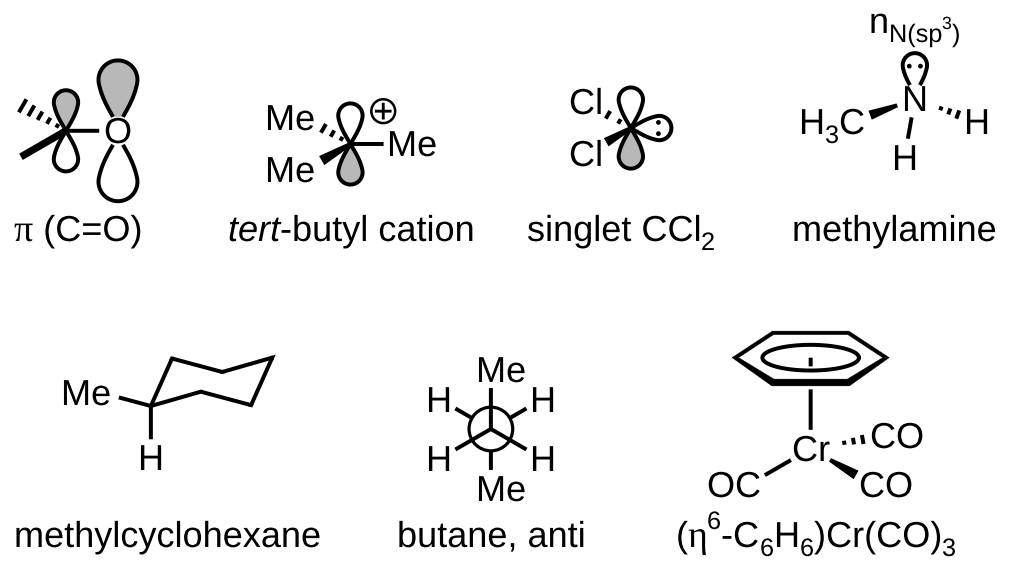
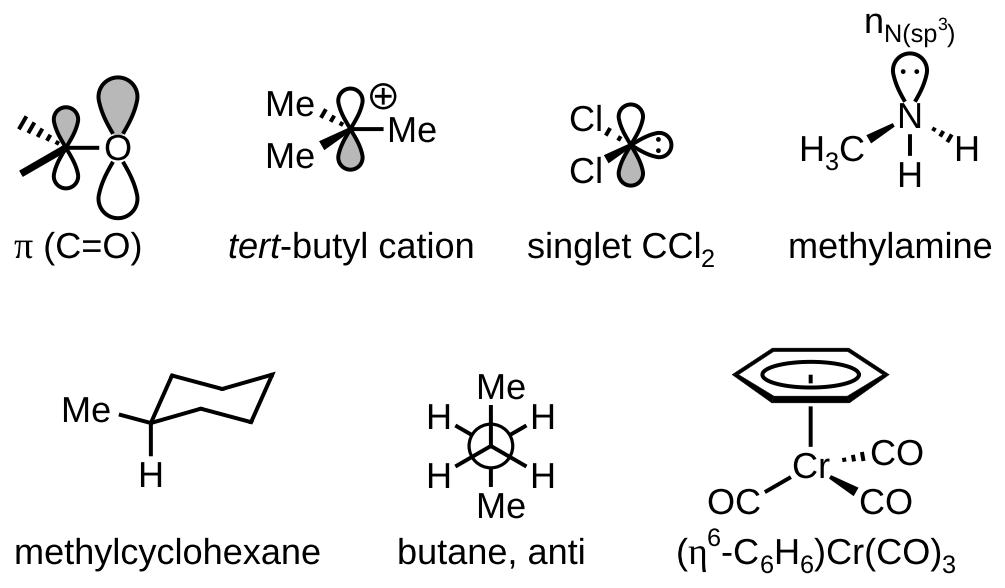
bondline 1.1.0: orbital lobes shaded up to the letter, full PPh3 in the Suzuki cycle

diff --git a/skills/bondline/scripts/bondline/_scene_finish.py b/skills/bondline/scripts/bondline/_scene_finish.py
@@ -381,11 +381,16 @@ class _SceneFinish:
             u = dirv(t); v = perp(u)                                                         # labelled atom's lobe
             H = self._lobe_half(k * L, q, k == 1.0, self._lobe_form(a, t) if k == 1.0 else None)
             o = self._lobe_tip(a, u, A, size) if lab else 0.0   # comes out from behind its letter, its tip hidden: cut there,
-            if lab:                                        # the outline left open (no pinch of two strokes reads as a dot)
+            full = None                                    # the outline left open (no pinch of two strokes reads as a dot)
+            if lab:                                        # and its fill running on behind the letter, up to its ink
                 c = self._exit_hull(a, u, A, self.LOBE_GAP, whole=True) - o
+                F = H if o >= 0 else np.vstack([[-o, float(np.interp(-o, H[:, 0], H[:, 1]))], H[H[:, 0] > -o + 1e-6]])
+                F = np.column_stack([F[:, 0], np.where(F[:, 0] < c - st.lw / 2, np.maximum(F[:, 1] - st.lw / 2, 0.0), F[:, 1])])
+                full = np.vstack([F, (F * [1, -1])[::-1][1:]]); full = A + u * o + full[:, :1] * u + full[:, 1:] * v   # (from the
+                # nucleus on, as wide as the inside of the outline where that has stopped short of the letter)
                 y0 = float(np.interp(c, H[:, 0], H[:, 1])); H = np.vstack([[c, y0], H[H[:, 0] > c + 1e-6]])
             loc = np.vstack([H, (H * [1, -1])[::-1][1:]])
-            return A + u * o + loc[:, :1] * u + loc[:, 1:] * v
+            return A + u * o + loc[:, :1] * u + loc[:, 1:] * v, full
         if kind == "s":                                    # a sphere, shaded for phase "up" and white for "down" (s + s in
             R = 0.42 * st.bond * size                      # and out of phase look different), its nucleus a dot on a bare
             P = A + R * np.array([dirv(t) for t in np.arange(0.0, 360.0, 5.0)])   # atom (not a bond's dash read as a minus)
@@ -397,8 +402,9 @@ class _SceneFinish:
                                                                   # edge it floats free: only a bare vertex shows it)
             lobes = [(angle, shade == "up", 1.0, None)] + ([(angle + 180, shade == "down", 1.0, None)] if kind == "p" else back)
             for t, filled, k, q in lobes:
-                P = lobe(t, k, q)
-                out.append(("orb", P, grey if filled else "white", col) + (("open",) if lab else ()))
+                P, full = lobe(t, k, q)
+                hulls = [h for x in a._g for h in x["hulls"]] if lab else None
+                out.append(("orb", P, grey if filled else "white", col) + (("open", full, hulls) if lab else ()))
         re_ = 0.8 * st.lp_r; c0, v = self._lobe_pair(A, dirv(angle), self._lobe_tip(a, dirv(angle), A, size), size, re_,
                                                      self._lobe_form(a, angle))
         for k in range(ne):                                # (an orbital's electrons: a little smaller than a lone pair's, so
@@ -656,9 +662,14 @@ class _SceneFinish:
                                                         lw=pr[5] if len(pr) > 5 else 0.8 * st.lw))
             elif pr[0] == "dot": ax.add_patch(Circle(pr[1], pr[2], fc=pr[3], ec="none",
                                                      zorder={("top",): 2.5, ("bottom",): 0.5}.get(tuple(pr[4:]), 1)))
-            elif pr[0] == "orb" and pr[4:] == ("open",):    # a lobe from behind a label: filled closed, its outline open,
-                ax.add_patch(Polygon(np.array(pr[1]), closed=True, fc=pr[2], ec="none", lw=0))      # both ending square a
-                ax.add_patch(Polygon(np.array(pr[1]), closed=False, fill=False, ec=pr[3], lw=st.lw, joinstyle="round", capstyle="butt"))   # hair off the letter
+            elif pr[0] == "orb" and pr[4:5] == ("open",):   # a lobe from behind a label: its fill runs on behind the letter
+                F = np.array(pr[5]); lo, hi = F.min(0) - 1, F.max(0) + 1; vs = [[lo, [hi[0], lo[1]], hi, [lo[0], hi[1]], lo]]
+                for h in pr[6]:                            # (clipped to outside the letters' outlines, so none shows in an O)
+                    h = np.asarray(h, float); ar = np.sum(h[:, 0] * np.roll(h[:, 1], -1) - np.roll(h[:, 0], -1) * h[:, 1])
+                    h = h if ar < 0 else h[::-1]; vs.append(np.vstack([h, h[:1]]))   # (clockwise: a hole in the box)
+                cp = _MPath(np.vstack(vs), np.hstack([[_MPath.MOVETO] + [_MPath.LINETO] * (len(v) - 2) + [_MPath.CLOSEPOLY] for v in vs]))
+                ax.add_patch(Polygon(F, closed=True, fc=pr[2], ec="none", lw=0, clip_path=(cp, ax.transData)))
+                ax.add_patch(Polygon(np.array(pr[1]), closed=False, fill=False, ec=pr[3], lw=st.lw, joinstyle="round", capstyle="butt"))   # its outline open, ending square a hair off the letter
             elif pr[0] == "orb": ax.add_patch(Polygon(np.array(pr[1]), closed=True, fc=pr[2], ec=pr[3], lw=st.lw, joinstyle="round"))
         for t in texts:
             if t.get("halo"):

diff --git a/docs/showcase/cycle.py b/docs/showcase/cycle.py
@@ -1,20 +1,24 @@
-# Same script as the skill's examples/08_catalytic_cycle.py, saved as cycle.png.
-# Catalytic cycle (Suzuki coupling of 4-bromoanisole with phenylboronic acid): stations placed round a circle at the
-# angles given, arcs drawn in order, reagents in and products out as branches (a branch can be a structure), and each
-# step named beside its arc. ligate() puts the PPh3 ligands on standard square-planar sites; join() adds the phenyl
-# cis to the aryl group, ready for reductive elimination.
+# The skill's examples/08_catalytic_cycle.py with every PPh3 drawn out: ring_out() hangs three phenyls off each P,
+# fanned 80 deg apart, and the two cis phosphines of the transmetallation product sit further out, their fans turned
+# away from each other. Suzuki coupling of 4-bromoanisole with phenylboronic acid; the stations go round a circle at
+# the angles given, reagents in and products out as branches (a branch can be a structure), each step named by its arc.
 from bondline import *
 S = Scene(Style())
+def ph3(m, sites, turn={}):                       # three drawn phenyls on each P, fanned 80 deg apart (turn: per site)
+    for k, P in sites.items():
+        if P.label != "P": continue
+        t = ang(P.xy - m.nbrs(P)[0].xy) + turn.get(k, 0)
+        for d in (-80, 0, 80): m.ring_out(P, t + d, kekule=True)
 def anisyl_pd():                                      # 4-MeOC6H4-Pd, its C-Pd bond pointing right
     smi = "COc1ccc(cc1)[Pd]"; m = from_smiles(smi); pd = m.atoms[-1]; ip = m.nbrs(pd)[0]
     m = from_smiles(smi, align=(m.atoms.index(ip), m.atoms.index(pd), 0)); return m, m.atoms[-1]
-oa, p1 = anisyl_pd(); oa.ligate(p1, "sqpl", N="PPh_3", S="PPh_3", E="Br")
-tm, p2 = anisyl_pd(); tm.ligate(p2, "sqpl", E="PPh_3", S="PPh_3")
+oa, p1 = anisyl_pd(); ph3(oa, oa.ligate(p1, "sqpl", length=1.8, N="P", S="P", E="Br"))
+tm, p2 = anisyl_pd(); ph3(tm, tm.ligate(p2, "sqpl", length=2.5, E="P", S="P"), {"E": 20, "S": -20})
 ph = from_smiles("c1ccccc1"); ipso = ph.atoms[0]; tm.merge(ph); tm.join(p2, ipso, angle=90)
-pd0 = Mol(); p = pd0.atom("Pd^0", (0, 0)); pd0.ligate(p, "lin", E="PPh_3", W="PPh_3")
-c = S.cycle([(pd0, 90), (oa, -30), (tm, 210)], radius=5.5)
+pd0 = Mol(); p = pd0.atom("Pd^0", (0, 0)); ph3(pd0, pd0.ligate(p, "lin", length=1.5, E="P", W="P"))
+c = S.cycle([(pd0, 90), (oa, -30), (tm, 210)], radius=8)
 S.branch(c, 0, from_smiles("COc1ccc(Br)cc1"), kind="in"); S.branch(c, 1, "PhB(OH)_2, K_2CO_3", kind="in")
 S.branch(c, 2, from_smiles("COc1ccc(cc1)c1ccccc1"), kind="out")
-S.branch(c, 0, "oxidative\naddition", kind="step"); S.branch(c, 1, "transmetallation", kind="step")
+S.branch(c, 0, "oxidative\naddition", kind="step"); S.branch(c, 1, "transmetallation", kind="step", side="in")
 S.branch(c, 2, "reductive\nelimination", kind="step")
 print(S.save("cycle.png", dpi=260)); S.check()

diff --git a/docs/showcase/gallery.py b/docs/showcase/gallery.py
@@ -10,8 +10,8 @@ cat = Mol(); k = cat.atom("C", (0, 0)); k.charge = 1; cat.attach(k, 0, "Me"); ca
 cat.attach(k, 210, "Me", style="wedge"); S.orbital(k, "p", 90, shade="down"); S.caption(cat, "<i>tert</i>-butyl cation")
 cb = Mol(); q = cb.atom("C", (0, 0)); cb.attach(q, 150, "Cl", style="hash"); cb.attach(q, 210, "Cl", style="wedge")
 S.orbital(q, "p", 90, shade="down"); S.orbital(q, "lobe", 0, electrons=2); S.caption(cb, "singlet CCl_2")
-am = Mol(); n = am.atom("N", (0, 0)); am.attach(n, 200, "CH3", style="wedge"); am.attach(n, -20, "H", style="hash"); am.attach(n, 260, "H")
-S.orbital(n, "lobe", 90, electrons=2, label="n_{N(sp^3)}"); S.caption(am, "methylamine")
+am = Mol(); n = am.atom("N", (0, 0)); am.attach(n, 210, "CH3", style="wedge"); am.attach(n, 330, "H", style="hash"); am.attach(n, 270, "H")
+S.orbital(n, "lobe", 90, electrons=2, size=1.4, label="n_{N(sp^3)}"); S.caption(am, "methylamine")
 S.row([co, cat, cb, am], gap=2.5)
 eq = Mol(); at, ax, eqd = eq.chair(); eq.attach(at[0], eqd[0], "Me"); eq.attach(at[0], ax[0], "H")
 S.caption(eq, "methylcyclohexane")

diff --git a/skills/bondline/tests/cases/p41_visual.py b/skills/bondline/tests/cases/p41_visual.py
@@ -19,7 +19,7 @@ for ex in S.extras:
     up = P[0] - A; along = up @ u; across = up @ perp(u)
     print(a, "lobe", round(float(along.max() - along.min()), 1), "pt long,", round(float(across.max() - across.min()), 1),
           "pt wide (", round(float((across.max() - across.min()) / along.max()), 2), "of its reach ); starts",
-          round(float(along.min()), 1), "pt out;", "open at the label" if S._orbital_prims(ex)[0][4:] == ("open",) else "closed at the nucleus")
+          round(float(along.min()), 1), "pt out;", "open at the label" if S._orbital_prims(ex)[0][4:5] == ("open",) else "closed at the nucleus")
 cut = [p for ex in S.extras if ex[0] == "orbital" and ex[1] is o for p in S._orbital_prims(ex) if p[0] == "orb"][0]
 P = np.asarray(cut[1], float); print("O lobe's open end:", round(float(norm(P[0] - P[-1])), 2), "pt across (line width", S.st.lw, ")")
 print("C+ charge at", round(x._chg[2]), "deg,", round(float(norm(x._chg[0] - S.P(x)) / S.st.bond), 2), "BU out; beside its lobe:",

diff --git a/README.md b/README.md
@@ -64,7 +64,7 @@ Once it's installed, just ask:
 <p align="center">
   <picture>
     <source media="(prefers-color-scheme: dark)" srcset="https://raw.githubusercontent.com/montybwolfe/bondline/main/docs/images/cycle-dark.png">
-    <img src="https://raw.githubusercontent.com/montybwolfe/bondline/main/docs/images/cycle.png" alt="Suzuki coupling of 4-bromoanisole and phenylboronic acid, catalysed by Pd(PPh3)2" width="57%">
+    <img src="https://raw.githubusercontent.com/montybwolfe/bondline/main/docs/images/cycle.png" alt="Suzuki coupling of 4-bromoanisole and phenylboronic acid, catalysed by Pd(PPh3)2, each PPh3 drawn in full" width="68%">
   </picture>
 </p>
 

diff --git a/skills/bondline/CHANGES.md b/skills/bondline/CHANGES.md
@@ -18,6 +18,8 @@
   and T to a whole number of pixels, so the same letter came out 3 or 4 pixels wide depending on where it stood (two
   L ligands, a bonded H beside the H of H₃PO₄). Each run of text also starts on a whole pixel, so a letter is drawn
   with identical pixels wherever it stands.
+- An orbital lobe drawn on a labelled atom (the p orbital of a C=O's oxygen) is shaded right up to the letter. A thin
+  white line used to separate the shading from the letter.
 - Rows of a scheme (`flow()`, `row(under=)`) sit 1.3 BU apart instead of 0.9, so captions no longer crowd the
   conditions of the row below.
 
